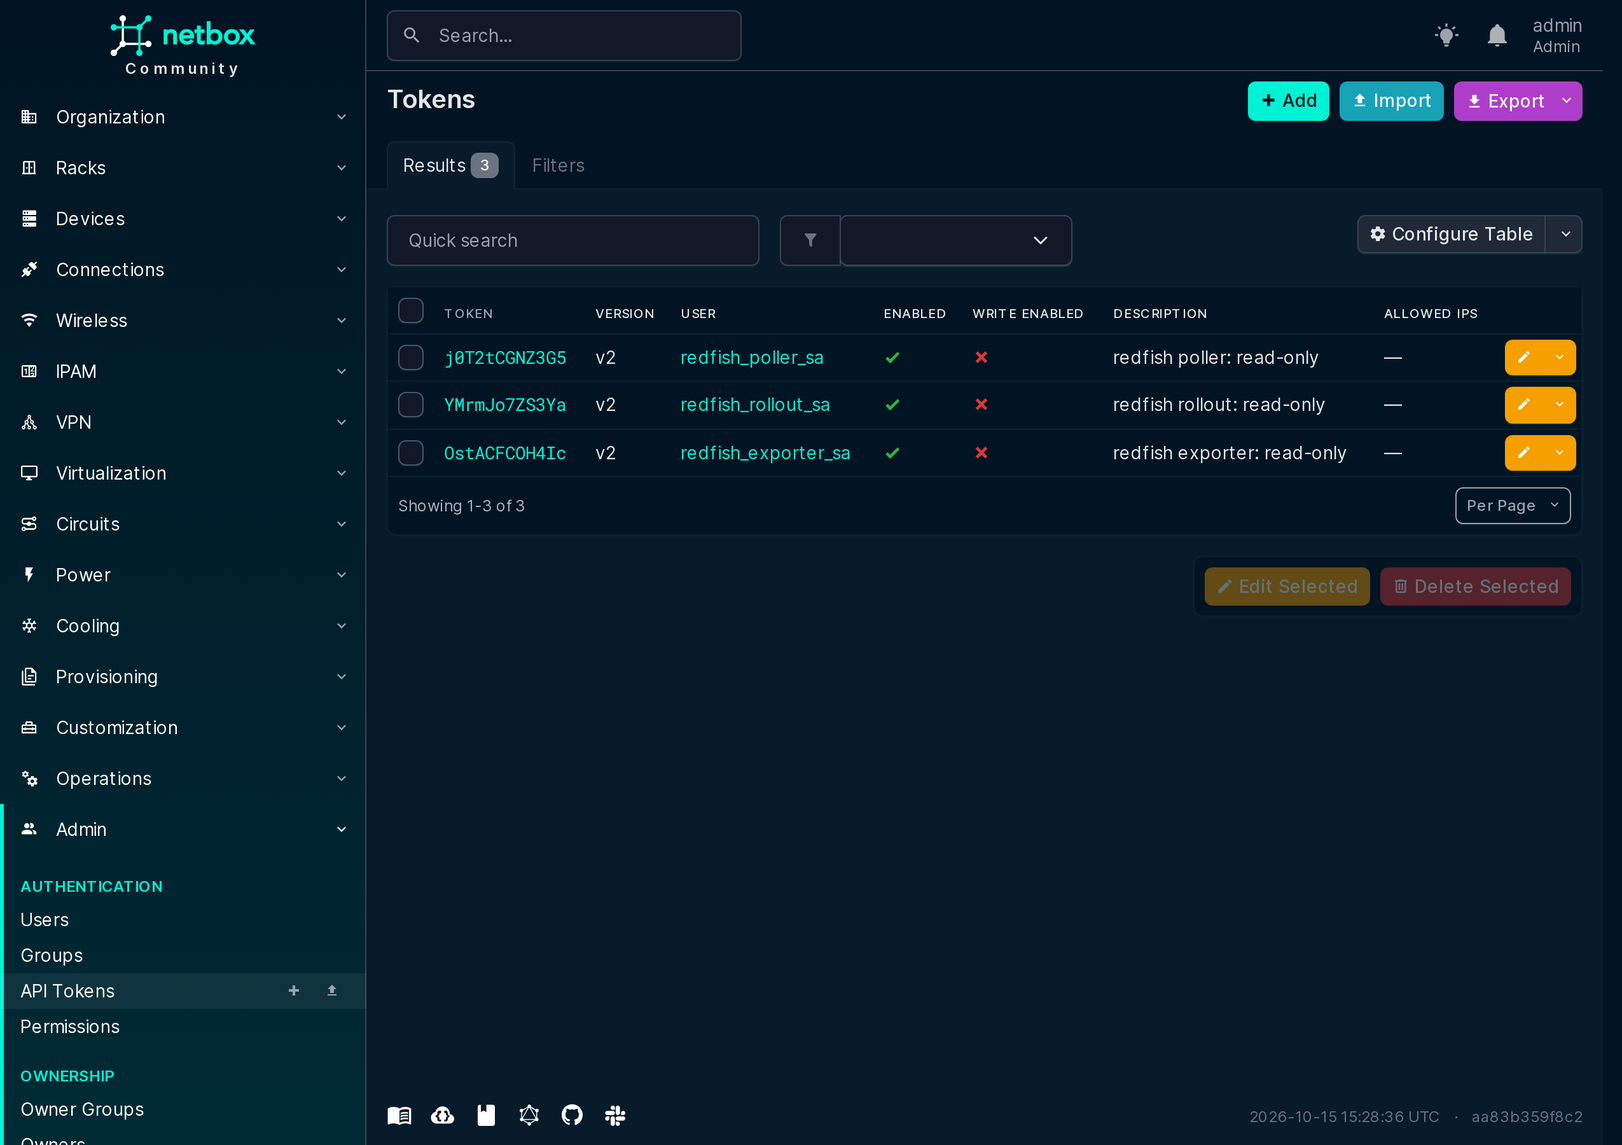
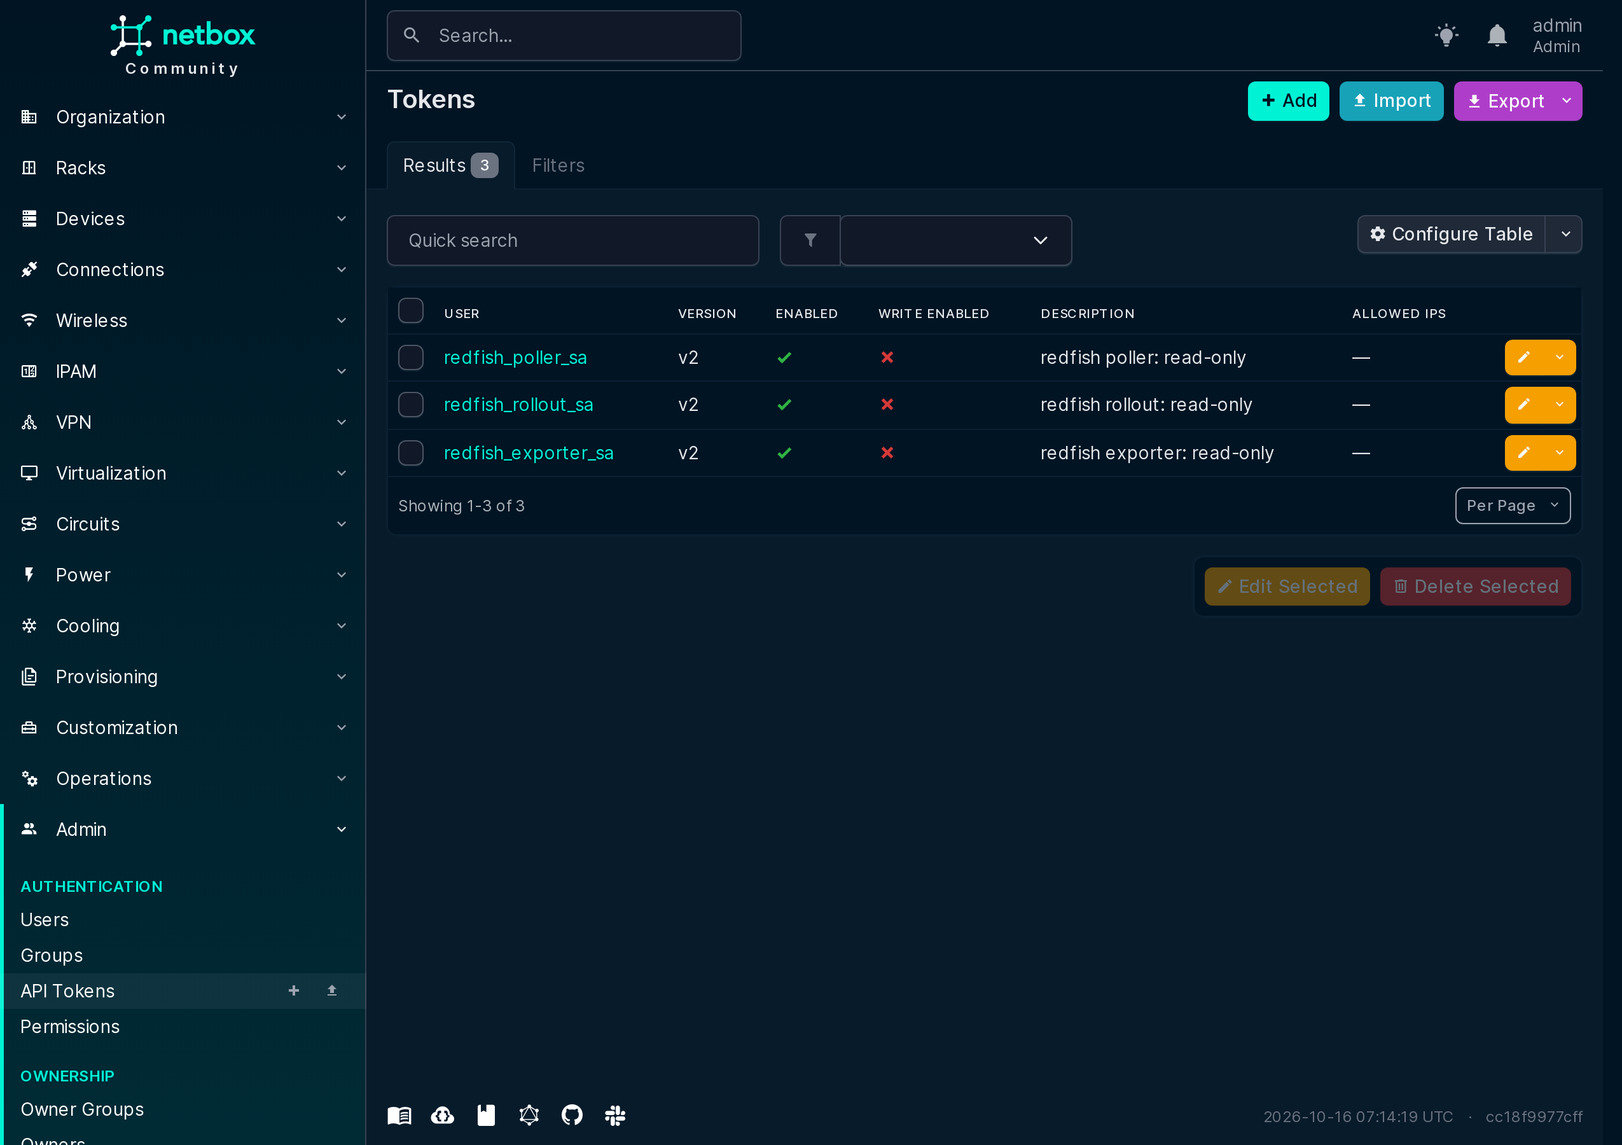
Test and update of docs.

diff --git a/tests/test_rollout.py b/tests/test_rollout.py
@@ -351,6 +351,33 @@ def test_frozen_plan():
     assert (state, installed) == ("blocked", [])
 
 
+# The run side of "only a tag makes a host writable": run --yes refuses a planned host that NetBox doesn't tag
+# writable, before the state database, any lock or any update
+def test_run_writable():
+    server, found = {"host": "127.0.0.1:2441", "rack": "r1"}, lab()  # NetBox's entry, without the tag
+    policy = {"allow_downgrade": True, "accept_no_rollback": False, "images": catalog(), "drain": None}
+    result = rollout.check(found, {MODEL: {BMC: TARGET}}, BMC, policy)
+    plan = Path(tempfile.mkdtemp()) / "plan.json"
+    plan.write_text(json.dumps({
+        "component": BMC, "baseline": "-", "images": "-", "allow_downgrade": True, "accept_no_rollback": False,
+        "inputs": {}, "waves": {"canary": [server["host"]]}, "servers": {server["host"]: server},
+        "rollout": {**rollout.ROLLOUT_DEFAULTS, "file": None},
+        "verdicts": {server["host"]: {"identity": result.get("identity")}}}))
+    step = {"servers": [server], "reads": [(found, 0.0)], "results": [result], "baselines": {}, "policy": policy,
+            "read_at": "00:00:00 UTC"}
+
+    def reached():
+        raise AssertionError("run --yes reached the state database: the untagged host would be locked and updated")
+    with (patch.object(rollout, "load_servers", lambda: [server]), patch.object(rollout, "prepare", lambda args: step),
+          patch.object(rollout, "state_db", reached)):
+        try:
+            rollout.run(SimpleNamespace(plan=str(plan), stage="canary", yes=True, fault=None, reset_timeout=900))
+        except SystemExit as e:
+            assert "not tagged writable in NetBox: 127.0.0.1:2441" in str(e), e
+        else:
+            raise AssertionError("run --yes went on with a host NetBox doesn't tag writable")
+
+
 # The gate after each wave, the lab's policy: the canary and wave 1 strict, later waves halt over 10% failed.
 # states: every host tried so far, every wave up to this one
 def test_gate():
@@ -467,8 +494,9 @@ def test_who():
 
 # NetBox's devices as the tools' servers, page after page: a device's config context gives how its BMC is reached
 # (else HTTPS, the certificate checked: every entry says, as each reader takes it), canary and writable come from its
-# tags only; a device without an out-of-band IP or a BMC account isn't read. No token, or a site with no host, stops
-# collect and plan with why
+# tags only; a device without an out-of-band IP, a usable BMC account (X_USERNAME and X_PASSWORD, set here: not any
+# other of the tool's secrets) or HTTPS isn't read. No token, a site with no host, NetBox down or answering something
+# else than JSON stops collect and plan with why
 def test_netbox_inventory():
     lab = {"verify": False, "retries": 1, "deadline": 300, "username_env": "LAB_USERNAME",
            "password_env": "LAB_PASSWORD"}
@@ -482,8 +510,14 @@ def test_netbox_inventory():
                                "workers": 4}}
     pages = {"http://nb/api/dcim/devices/?site=lab&limit=1000": {"results": [device], "next": "http://nb/2"},
              "http://nb/2": {"results": [bare, {**device, "display": "spare", "oob_ip": None},
-                                         {**device, "display": "no account", "config_context": {"verify": False}}],
+                                         {**device, "display": "no account", "config_context": {"verify": False}},
+                                         {**device, "display": "foreign", "config_context": {
+                                             "username_env": "LAB_USERNAME", "password_env": "STATE_DB"}},
+                                         {**device, "display": "unset", "config_context": {
+                                             "username_env": "GONE_USERNAME", "password_env": "GONE_PASSWORD"}},
+                                         {**device, "display": "plain", "config_context": {**lab, "scheme": "http"}}],
                              "next": None}}
+    accounts = {"LAB_USERNAME": "u", "LAB_PASSWORD": "p", "DELL_USERNAME": "u", "DELL_PASSWORD": "p", "STATE_DB": "s"}
 
     class Answer:  # one page of NetBox's answer
         def __init__(self, url, **_):
@@ -495,7 +529,7 @@ def test_netbox_inventory():
         def json(self):
             return self.body
 
-    with patch.dict(os.environ, {"NETBOX_TOKEN": "nbt_key.token"}), patch("poller.requests.get", Answer):
+    with patch.dict(os.environ, {"NETBOX_TOKEN": "nbt_key.token", **accounts}), patch("poller.requests.get", Answer):
         assert poller.load_servers("http://nb/", "lab") == [
             {"host": "127.1.0.1", "vendor": "NVIDIA", "project": "lab", "rack": "r1", "canary": True,
              "writable": True, "node": "bmc1", "scheme": "https", **lab},
@@ -508,6 +542,21 @@ def test_netbox_inventory():
             assert ".tokens.env" in str(e), e
         else:
             raise AssertionError("NetBox read without a token")
+
+    class Html(Answer):  # NETBOX_URL at something else than NetBox: a page, not JSON
+        def json(self):
+            raise poller.requests.exceptions.JSONDecodeError("Expecting value", "<html>", 0)
+
+    def down(url, **_):
+        raise poller.requests.ConnectionError("[Errno 111] Connection refused")
+    for get in (Html, down):
+        with patch.dict(os.environ, {"NETBOX_TOKEN": "nbt_key.token"}), patch("poller.requests.get", get):
+            try:
+                poller.load_servers("http://nb/", "lab")
+            except SystemExit as e:
+                assert str(e).startswith("NetBox at http://nb/:") and "make control-up" in str(e), e
+            else:
+                raise AssertionError(f"{get.__name__}: no answer from NetBox, yet no stop")
     with patch("poller.load_servers", lambda: []):
         try:
             poller.collect(None)

diff --git a/poller.py b/poller.py
@@ -53,10 +53,11 @@ from rich.rule import Rule
 from rich.table import Column, Table
 from rich.text import Text
 
-from constants import (ACTION, ALLOWED, BASELINE, CAPABILITIES_ROW, CHASSIS, COMPLIANCE_ROW, CONNECTION, CRITICAL, DMTF,
-                       FIELDS, FW_PARTS, INVENTORY_ROW, JOBS_ROW, JOB_TYPES, KIND, LIMIT, LINKS, MANAGER, NETBOX_URL,
-                       OEM_PATH, PREVIOUS, PROPS, READINGS, ROOT, SCHEMAS, SENSORS, SERVICE, SEVERITY, SITE, SKIP,
-                       STATUS_LEAF, SUMMARY, SYSTEM, TELEMETRY_ROW, TEMPLATES, THRESHOLD, VOLATILE, WILDCARD)
+from constants import (ACCOUNT, ACTION, ALLOWED, BASELINE, CAPABILITIES_ROW, CHASSIS, COMPLIANCE_ROW, CONNECTION,
+                       CRITICAL, DMTF, FIELDS, FW_PARTS, INVENTORY_ROW, JOBS_ROW, JOB_TYPES, KIND, LIMIT, LINKS,
+                       MANAGER, NETBOX_URL, OEM_PATH, PREVIOUS, PROPS, READINGS, ROOT, SCHEMAS, SENSORS, SERVICE,
+                       SEVERITY, SITE, SKIP, STATUS_LEAF, SUMMARY, SYSTEM, TELEMETRY_ROW, TEMPLATES, THRESHOLD,
+                       VOLATILE, WILDCARD)
 from helpers import (at, block, choose, connection, details, discrete, first_of, first_real, identity, items, label,
                      link, load, named, norm, obj, of, output_options, per_host, pick, pointer, previous, properties,
                      reachable, real, reason, rollup, rtype, sample, show, snapshot_path, tally, text, uri_of)
@@ -385,17 +386,21 @@ def load_servers(url=NETBOX_URL, site=SITE.name) -> list[dict]:
         try:
             r = requests.get(page, headers={"Authorization": f"Bearer {token}"}, timeout=10)
             r.raise_for_status()
+            body = r.json()  # something else than NetBox at the URL answers a page, not JSON
         except requests.RequestException as e:
             raise SystemExit(f"NetBox at {url}: {reason(str(e))}. make control-up starts it")
-        body = r.json()
         for d in body["results"]:
             # only how its BMC is reached: a context can't make a host canary or writable, only a tag can
             context = {k: v for k, v in (d.get("config_context") or {}).items() if k in CONNECTION}
+            account = f"{context.get('username_env')} {context.get('password_env')}"
             if not d["oob_ip"]:
                 log.warning("NetBox: %s has no out-of-band IP, so its BMC isn't read", d["display"])
-            elif not {"username_env", "password_env"} <= context.keys():
-                log.warning("NetBox: %s has no BMC account in its config context (username_env, password_env), so "
-                            "its BMC isn't read", d["display"])
+            elif not ACCOUNT.fullmatch(account) or not set(account.split()) <= os.environ.keys():
+                log.warning("NetBox: %s has no BMC account to use: its config context must name X_USERNAME and "
+                            "X_PASSWORD, both set here, so its BMC isn't read", d["display"])
+            elif context.get("scheme", "https") != "https":
+                log.warning("NetBox: %s isn't reached over HTTPS, so its BMC isn't read: its account would cross in "
+                            "clear", d["display"])
             else:
                 host, tags = d["oob_ip"]["address"].split("/")[0], {t["slug"] for t in d["tags"]}
                 server = {"host": host, "vendor": d["device_type"]["manufacturer"]["name"],

diff --git a/rollout.py b/rollout.py
@@ -467,8 +467,8 @@ def rollout_text(policy) -> str:
 # The plan's waves: a canary of each hardware model first, then waves that grow as the policy's cumulative percentages
 # say, the hosts spread over the racks in turn and never more than max_per_rack of one rack in a wave
 def waves(servers, models, policy) -> list[tuple[str, list[dict]]]:
-    """servers: the hosts that pass pre-flight; models: {host: its hardware model}. Hosts marked canary: true in the
-    inventory are the canary of their model first. The canary keeps to the rack limit too, unless every host of a model
+    """servers: the hosts that pass pre-flight; models: {host: its hardware model}. Hosts tagged canary in NetBox
+    are the canary of their model first. The canary keeps to the rack limit too, unless every host of a model
     is in a full rack. A wave the rack limit keeps short leaves its hosts to the next."""
     # lambda s: a host -> its rack, else its project: waves spread across them
     rack = lambda s: s.get("rack") or s.get("project") or "-"
@@ -482,7 +482,7 @@ def waves(servers, models, policy) -> list[tuple[str, list[dict]]]:
     for model in dict.fromkeys(models[s["host"]] for s in order):
         mine = [s for s in order if models[s["host"]] == model]
         for _ in range(min(policy["canary_per_model"], len(mine))):
-            # a rack with room first, then a host marked canary: true; a full rack only when the model has no other
+            # a rack with room first, then a host tagged canary; a full rack only when the model has no other
             canary.append(min((s for s in mine if s not in canary),
                               key=lambda s: (full(s), s.get("canary") is not True)))
     queue = [s for s in order if s not in canary]

diff --git a/control/netbox/seed.py b/control/netbox/seed.py
@@ -29,11 +29,15 @@ for service in ("poller", "exporter", "rollout"):
     view.object_types.set([ObjectType.objects.get_for_model(Device)])
     view.users.add(account)
     key, value = os.environ[f"NETBOX_TOKEN_{service.upper()}"].removeprefix("nbt_").split(".")
-    Token.objects.filter(key=key).exclude(user=account).delete()  # made for another account before
-    Token.objects.filter(user=account).exclude(key=key).delete()  # this account's old one, after a rotation
+    # the account's one token is the file's: another account's with its key, an older one, or its key with another
+    # secret (a rotation) goes; and it stays read-only, whatever was changed in NetBox since
+    for token in Token.objects.filter(user=account) | Token.objects.filter(key=key):
+        if token.user != account or token.key != key or not token.validate(value):
+            token.delete()
     if not Token.objects.filter(key=key).exists():
         Token.objects.create(user=account, key=key, token=value, write_enabled=False,
                              description=f"redfish {service}: read-only")
+    Token.objects.filter(key=key).update(write_enabled=False)
 
 # The sites, and how each one's BMCs are reached: its config context. Without one, HTTPS with the certificate checked.
 # The lab's account is OpenBMC's default, its values in LAB_USERNAME and LAB_PASSWORD (make)

diff --git a/constants.py b/constants.py
@@ -34,6 +34,9 @@ SITE = Path(__file__).parent / os.environ.get("SITE", "prod")
 NETBOX_URL = os.environ.get("NETBOX_URL", "http://127.0.0.1:8000")
 # What a device's config context may set: how its BMC is reached. Whether it is canary or writable comes from its tags
 CONNECTION = ("scheme", "verify", "timeout", "retries", "max_failures", "deadline", "username_env", "password_env")
+# A BMC account as a config context may name it: the env vars X_USERNAME and X_PASSWORD, one X. So an edit in NetBox
+# can't make a tool send another of its secrets (STATE_DB, NETBOX_TOKEN...) to a BMC as a login
+ACCOUNT = re.compile(r"([A-Z][A-Z0-9_]*)_USERNAME \1_PASSWORD")
 # The site's firmware catalog: the control plane's, YAML reviewed in git, a folder per site
 CATALOG = Path(__file__).parent / "control" / "catalog" / SITE.name
 BASELINE = CATALOG / "baseline.yaml"  # the approved firmware version per model and component

diff --git a/tests/mutations.py b/tests/mutations.py
@@ -62,6 +62,11 @@ BREAKS = [  # (what a careless edit does, the line as it is, the line broken, th
     ("writable from a config context",
      'context = {k: v for k, v in (d.get("config_context") or {}).items() if k in CONNECTION}',
      'context = dict(d.get("config_context") or {})', "test_netbox_inventory"),
+    ("an untagged host run with --yes", 'if s.get("writable") is not True]', "if False]", "test_run_writable"),
+    ("any secret sent as a BMC login", "elif not ACCOUNT.fullmatch(account) or not set(", "elif not set(",
+     "test_netbox_inventory"),
+    ("a BMC login sent over plain HTTP", 'elif context.get("scheme", "https") != "https":', "elif False:",
+     "test_netbox_inventory"),
     ("a held lock let through", "if taken == set(hosts):", "if True:", "test_host_locks"),
     ("a host left for a person unlocked", 'if o["state"] == "needs_attention")', "if False)", "test_host_locks"),
 ]

diff --git a/LAB.md b/LAB.md
@@ -130,9 +130,11 @@ rollout read the devices of their site (`SITE`) over NetBox's REST API.
 | canary, writable | the tags `canary` and `writable`: only a tag makes a host writable |
 | how its BMC is reached | its config contexts, its site's and its platform's, which NetBox merges. `site lab`: `verify: false`, `retries: 1`, `deadline: 300` and its account's env vars, `LAB_USERNAME` and `LAB_PASSWORD`. `site prod`: `verify: false`; each prod platform, a vendor's BMC, names its account's env vars. Without them: HTTPS, the certificate checked |
 
-A device without an out-of-band IP, or without an account in its config context, is skipped with a warning. Each
-service reads as its own account, which can't log in and may only view devices, with its own read-only token: a
-write, or a read of anything but devices, gets 403.
+A device is skipped with a warning when it has no out-of-band IP, when its config context doesn't name its account
+as `X_USERNAME` and `X_PASSWORD`, one `X`, both set where the tool runs, or when it isn't reached over HTTPS: an
+edit in NetBox can't make a tool send another of its secrets (`STATE_DB`, `NETBOX_TOKEN`...) as a BMC login, or
+send one in clear. Each service reads as its own account, which can't log in and may only view devices, with its
+own read-only token: a write, or a read of anything but devices, gets 403.
 
 | Account | Its token | Used by |
 |---|---|---|
@@ -184,9 +186,9 @@ component) and `images.yaml` (the image file and sha256 per version).
    policy says ([Rollout policy](#rollout-policy)): a canary of each hardware model, then waves that grow, spread
    across racks. It saves `plan.json`, and the later stages run exactly that plan: it records the sha256 of every
    file it read (baseline, catalog, policy), each host's entry from NetBox and each BMC's identity, and a stage
-   refuses to start when one of those changed since. It also records who planned it (`ROLLOUT_ACTOR`, else the account and host `make`
-   runs as) and the git commit each catalog file was approved in; each stage records who started it, and
-   `make cancel` who cancelled.
+   refuses to start when one of those changed since. It also records who planned it (`ROLLOUT_ACTOR`, else the
+   account and host `make` runs as) and the git commit each catalog file was approved in; each stage records who
+   started it, and `make cancel` who cancelled.
 2. **canary**: updates the canary hosts. Gate: any failure stops the pipeline, so wave 1 never starts.
 3. **waves**: wave 1 starts only after the canary passed and soaked. After each wave, the gate: the first waves are
    strict like the canary (any failure stops the pipeline); later ones stop when more than `failure_rate` of the hosts
@@ -432,7 +434,7 @@ another canary. `docker compose -f lab/docker-compose.yaml restart bmc1` clears 
 
 ## Test-driven development
 
-`make test` runs 26 tests in [tests/test_rollout.py](tests/test_rollout.py), with no BMC. It tests the decisions that keep a
+`make test` runs 27 tests in [tests/test_rollout.py](tests/test_rollout.py), with no BMC. It tests the decisions that keep a
 bad image from spreading, on real Redfish data: the lab BMC as a collect saved it
 ([tests/testdata/openbmc-gb200.json](tests/testdata/openbmc-gb200.json)), with one fact changed per case.
 
@@ -442,7 +444,8 @@ bad image from spreading, on real Redfish data: the lab BMC as a collect saved i
 | Post-check (`after_checks`) | the target runs; health no worse than before; a manager gone since fails; no new failed task. A task that says `Completed` while the old firmware still runs fails it |
 | One host (`run_host`, `scheduler`) | a failure before the reset: the old firmware still runs, nothing to roll back; after it: the version that ran before is reinstalled, not the target; a failed rollback, or none possible: `needs_attention`; a drain that fails or runs past its timeout fails the host before any update; an undrain that fails: `needs_attention`; a BMC that isn't the one the plan approved is blocked |
 | The frozen plan (`changed_inputs`) | an input file changed or gone since the plan stops the run |
-| The inventory (`load_servers`) | NetBox's devices, page by page: a config context's connection keys merged in, `canary` and `writable` from tags only (a context's `writable` ignored); a device without an out-of-band IP or a BMC account skipped; no token, or a site with no host, stops collect and plan with why |
+| The writable gate (`run`) | `run --yes` refuses a planned host NetBox doesn't tag `writable`, before the state database, any lock or any update |
+| The inventory (`load_servers`) | NetBox's devices, page by page: a config context's connection keys merged in, `canary` and `writable` from tags only (a context's `writable` ignored); a device without an out-of-band IP, without an account named `X_USERNAME` and `X_PASSWORD` that is set (not another of the tool's secrets), or not reached over HTTPS skipped; no token, a site with no host, NetBox down or answering something else than JSON stops collect and plan with why |
 | The gate (`gate`) | any failure halts the canary and the strict waves; a later wave halts over `failure_rate`, exactly `failure_rate` passes; a host that failed its soak halts any wave; blocked and skipped hosts were never tried |
 | The ingest gate (`control/ingest/promote-fw-images.sh`) | a package signed with the pinned key is uploaded and written into the catalog; one without its image's signature, with its image changed after signing, without a required file, signed with another key, or not signed at all, is refused, and nothing reaches the store |
 | The image cache (`image_problems`) | an image fetched from a real HTTP server into the agent's copy and checked; one the cache doesn't have, or bytes that don't match, block, and the bad copy is deleted |
@@ -460,8 +463,9 @@ test first: the tests failed (there was no `gate` or `after_checks`), then the c
 breaks one rule of the tools at a time the way a careless edit would: a downgrade let through,
 versions compared as text, a sha256 mismatch ignored, the rollback installing the target, the gate halting at exactly
 `failure_rate`, an image never fetched from the cache, an A/B bank counted as a way back, a host reset with no drain, a
-changed plan run anyway, a held lock let through, `writable` taken from a config context, and 21 more. For each
-break, the test that guards the rule must fail: 32 of 32 do. Its first run found a
+changed plan run anyway, a held lock let through, `writable` taken from a config context, an untagged host run
+with `--yes`, any secret sent as a BMC login, and 22 more. For each break, the test that guards the rule must
+fail: 35 of 35 do. Its first run found a
 gap: the strict-wave case had enough failures to halt anyway, so it passed with wave 1 not strict; the case now has 1
 failure in 11 hosts.
 

diff --git a/README.md b/README.md
@@ -93,8 +93,8 @@ swap the commented line in `control/catalog/lab/baseline.yaml` and run `make upd
 
 | Command | What it checks |
 |---|---|
-| `make test` | 26 tests, no BMC: pre-flight, post-check, rollback, gates, the frozen plan, the ingest gate, the image cache, on recorded Redfish data; host locks and append-only events, on the state database. `make update` runs it first |
-| `make mutations` | breaks 32 safety rules one at a time; every break fails a test |
+| `make test` | 27 tests, no BMC: pre-flight, post-check, rollback, gates, the frozen plan, the ingest gate, the image cache, on recorded Redfish data; host locks and append-only events, on the state database. `make update` runs it first |
+| `make mutations` | breaks 35 safety rules one at a time; every break fails a test |
 | `make fault SCENARIO=…` | the real pipeline on the lab, with a fault injected |
 
 ## Not built yet

diff --git a/PROD.md b/PROD.md
@@ -30,6 +30,11 @@ DELL_REDFISH_USERNAME=...
 DELL_REDFISH_PASSWORD=...
 ```
 
+The tools skip a host whose account isn't named `X_USERNAME` and `X_PASSWORD` (one `X`, both set) or that isn't
+reached over HTTPS, so an edit in NetBox can't send another of their secrets, or send one in clear. A device's
+out-of-band IP still decides where its account is sent: who may edit devices in NetBox is part of who holds the
+BMC accounts.
+
 The proposed production rollout, from the whole fleet down to one host (rings and scheduler integration are not
 implemented here):
 
